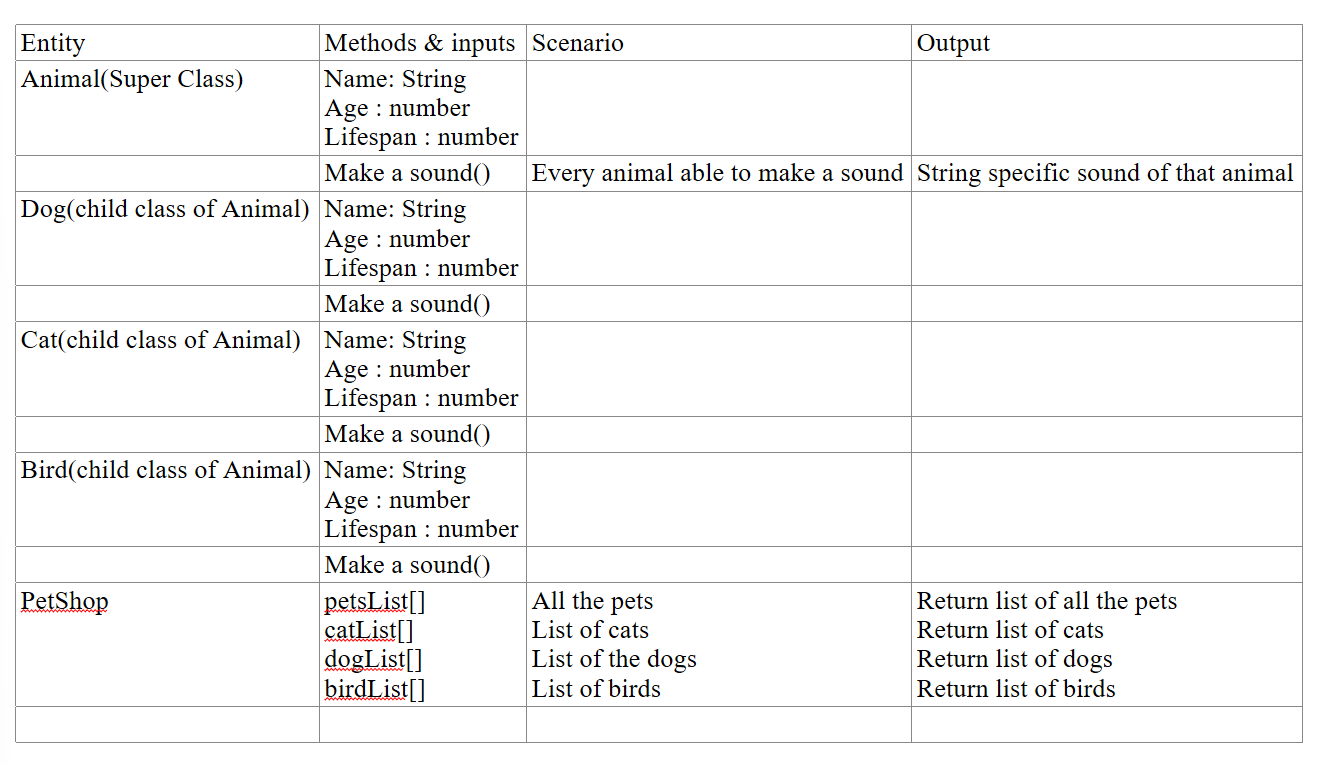
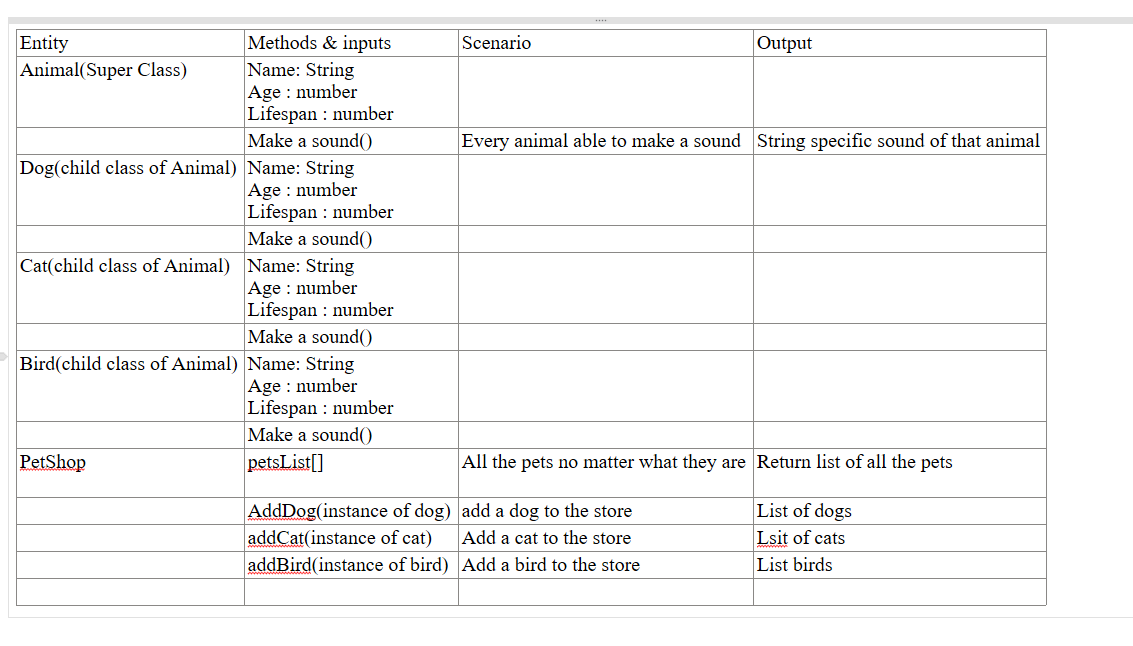
add methods Done

diff --git a/src/petshop.js b/src/petshop.js
@@ -1,0 +1,55 @@
+import { Bird } from "./bird.js";
+import { Cat } from "./cat.js";
+import { Dog } from "./dog.js";
+
+
+class PetShop {
+
+  constructor () {
+    this.petList = []
+    this.dogList = []
+    this.catList = []
+    this.birdList = []
+  }
+
+  addDog(dogClassIntance) {
+    if(dogClassIntance instanceof Dog) {
+      this.dogList.push(dogClassIntance)
+      this.petList.push(dogClassIntance)
+    } else {
+      return 'You cant add a dog to the dog List'
+    }
+  }
+
+  addCat(catClassIntance) {
+    if(catClassIntance instanceof Cat) {
+      this.catList.push(catClassIntance)
+      this.petList.push(catClassIntance)
+    } else {
+      return 'You cant add a cat to the cat List'
+    }
+  }
+
+  addBird(birdClassIntance) {
+    if(birdClassIntance instanceof Bird) {
+      this.birdList.push(birdClassIntance)
+      this.petList.push(birdClassIntance)
+    } else {
+      return 'You cant add a bird to the bird List'
+    }
+  }
+}
+
+const myDog = new Dog('Pilar', 6.5, 14)
+const myCat = new Cat('Garffield', 6.5, 6)
+const myBird = new Bird('tweet', 6.5, 3)
+const myPetShop = new PetShop()
+
+myPetShop.addDog(myDog)
+myPetShop.addBird(myBird)
+myPetShop.addCat(myCat)
+
+// console.log('dogs : ', myPetShop.dogList)
+// console.log('cats : ', myPetShop.catList)
+// console.log('birds : ', myPetShop.birdList)
+console.log('all pets : ', myPetShop.petList)

diff --git a/src/dog.js b/src/dog.js
@@ -10,10 +10,4 @@ class Dog extends Animal {
   }
 }
 
-
-const animal = new Animal('Pillar', 6.5, '12')
-// console.log(animal.sound())
-
-const dog = new Dog('Valdo', '1.5', '12')
-
-console.log(dog.sound())
+export { Dog }

diff --git a/src/bird.js b/src/bird.js
@@ -9,3 +9,5 @@ class Bird extends Animal {
     return `${this.name} Say tweet!`
   }
 }
+
+export { Bird }

diff --git a/src/cat.js b/src/cat.js
@@ -9,3 +9,5 @@ class Cat extends Animal {
     return `${this.name} Say Mioo!`
   }
 }
+
+export { Cat }
